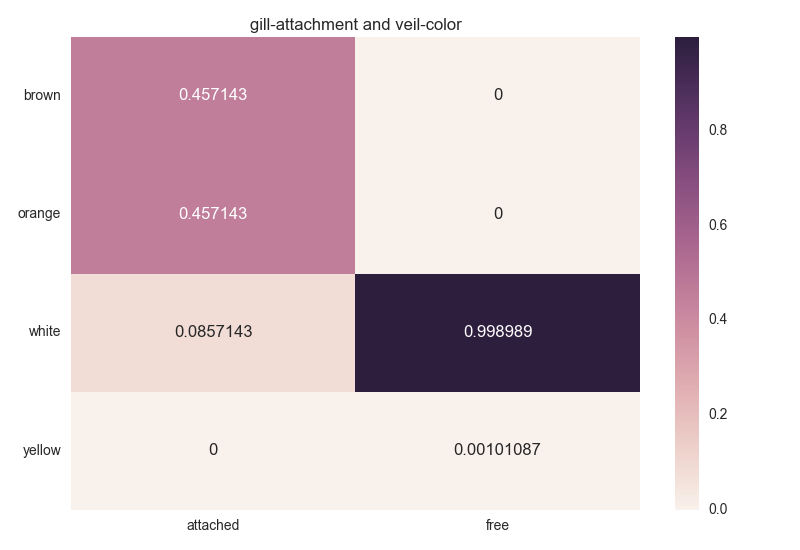
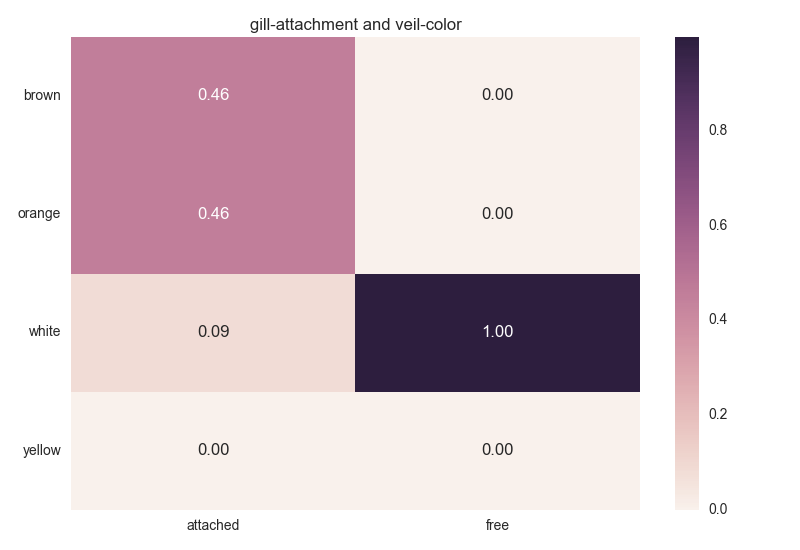
some heatmaps

diff --git a/visualizations/heatmaps.py b/visualizations/heatmaps.py
@@ -9,7 +9,7 @@ import pandas as pd
 sys.path.append(os.path.abspath('..'))
 from preprocessing import shroom_dealer
 
-def heatmap(attr1, attr2):
+def heatmap(attr1, attr2,annot=True):
     df = shroom_dealer.get_data_frame()
 
     labels1 = shroom_dealer.get_attribute_dictionary()[attr1]
@@ -26,13 +26,14 @@ def heatmap(attr1, attr2):
 
     ticks = [labels2[a] for a in d.index]
 
-    sns.heatmap(d, annot=True, yticklabels=ticks, fmt='g')
+    sns.heatmap(d, annot=annot, yticklabels=ticks, fmt='.2f')
 
 
     plt.title("{} and {}".format(attr1, attr2))
     plt.yticks(rotation=0)
     plt.tight_layout()
     plt.savefig("heatmaps/{}_and_{}.png".format(attr1, attr2))
+    plt.clf()
 
 def heatmap_all():
     cat_names = shroom_dealer.get_attribute_dictionary().keys()
@@ -42,7 +43,9 @@ def heatmap_all():
 
 def heatmap_important():
     important_pairs = [
-    ("gill-attachment","veil-color")
+    ("gill-attachment","veil-color"),
+    ("ring-type","spore-print-color"),
+    ("odor","poisonous")
     ]
 
     for x,y in important_pairs:
